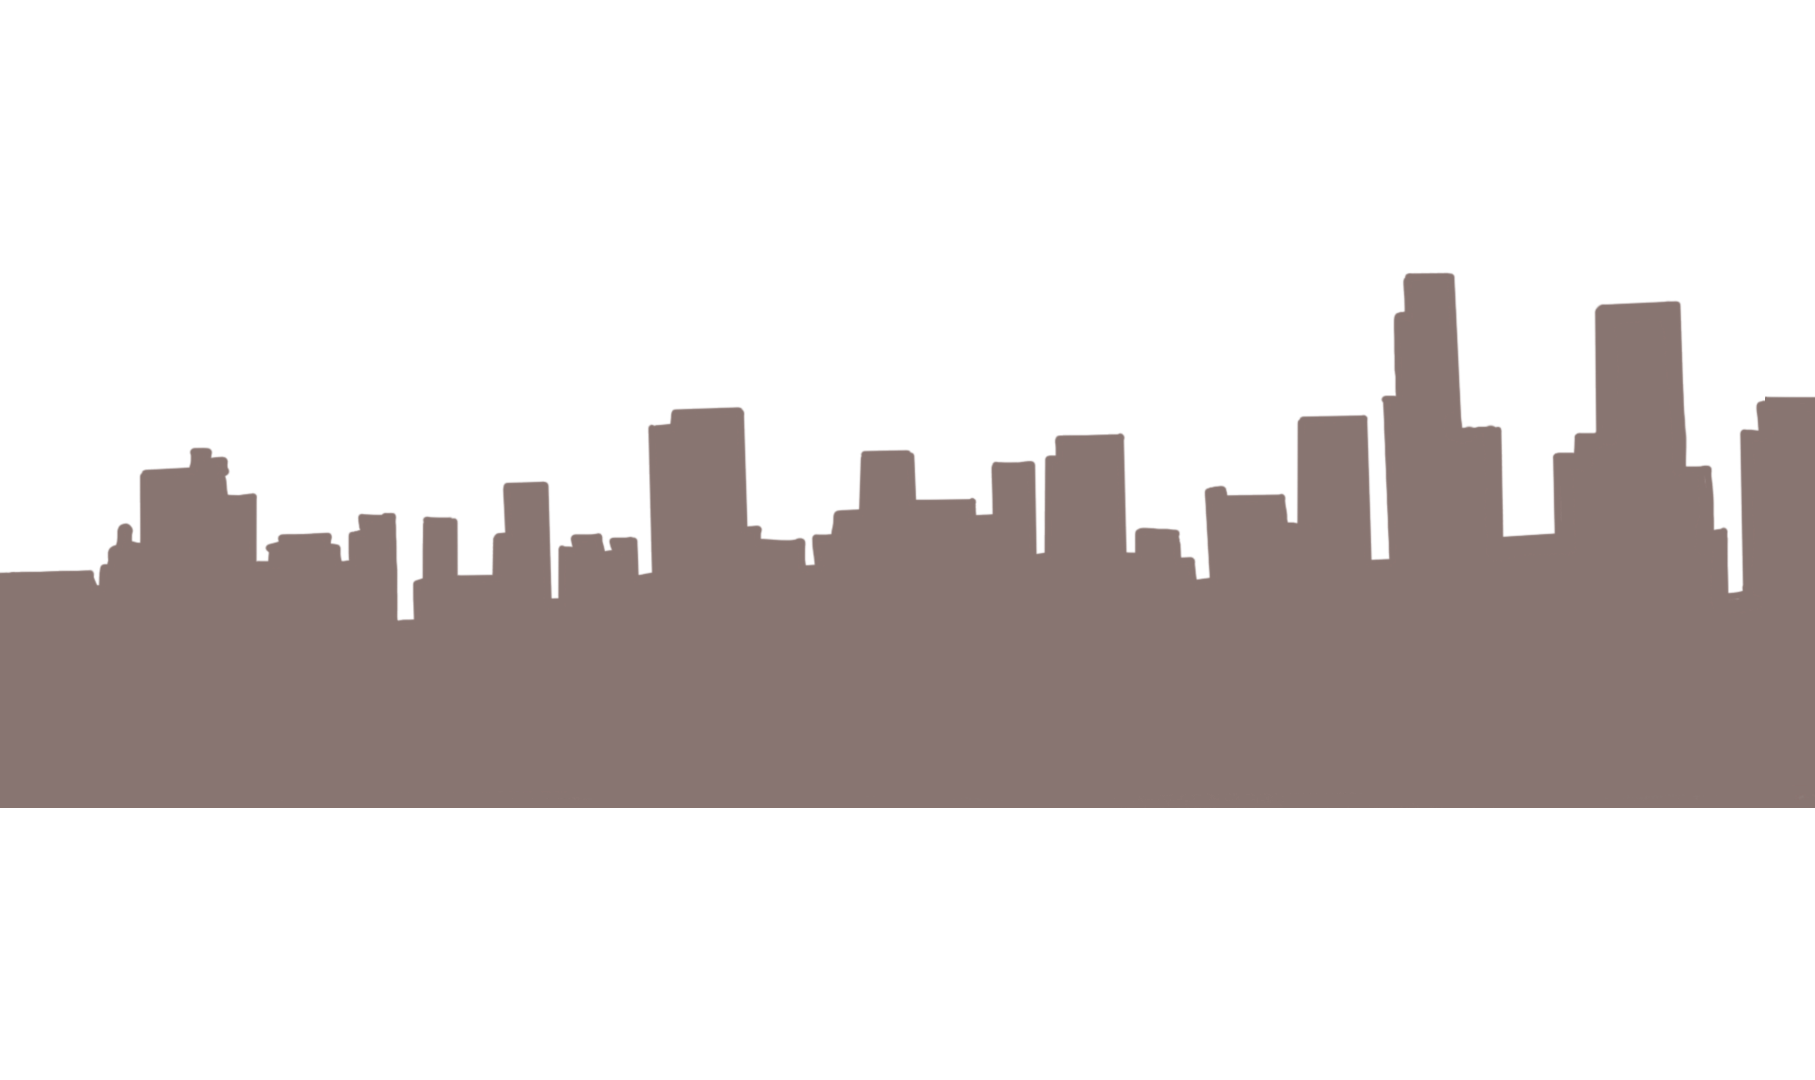
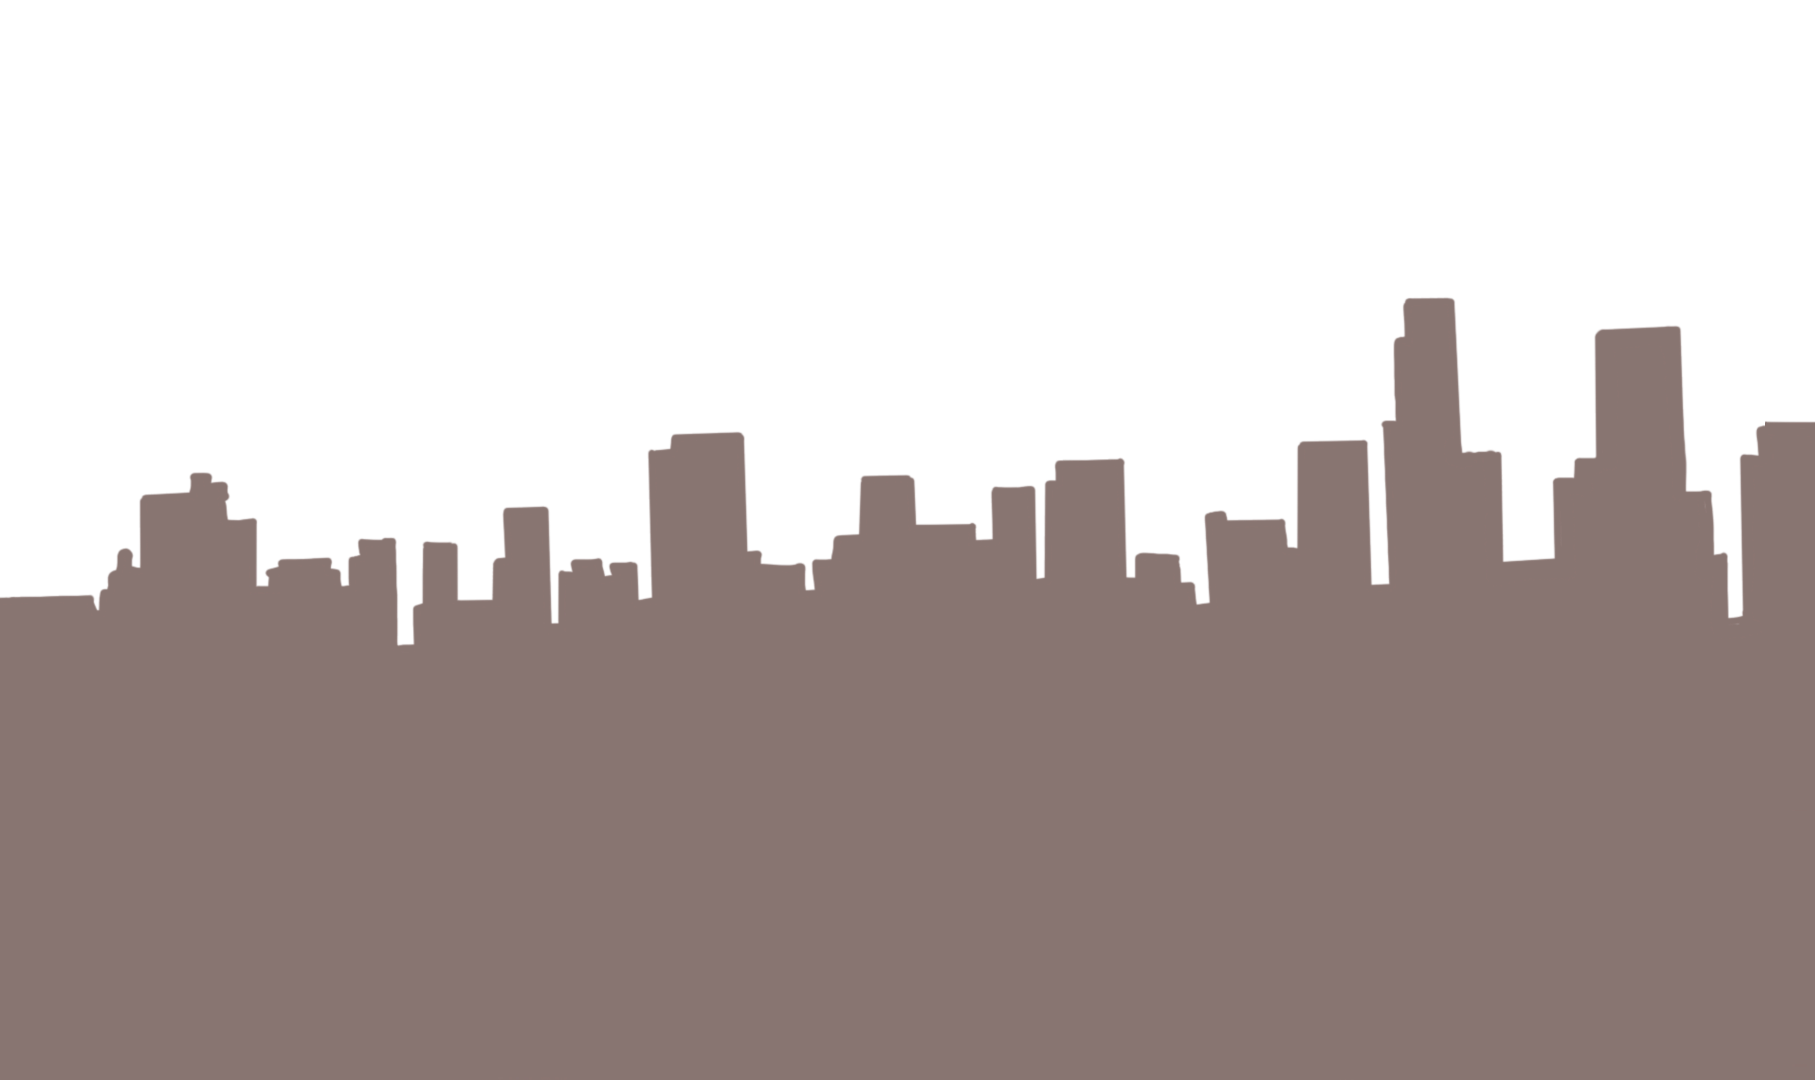
Fondos con desplazamiento y nuevos assets

diff --git a/js/abuelaFriki.js b/js/abuelaFriki.js
@@ -11,7 +11,7 @@ var config = {
         default: 'arcade',
         arcade: {
             gravity: { y: 980 }, // gravedad de la tierra
-            debug: false
+            debug: false  // Activar el modo de depuración para ver colisiones y límites
         }
     },
     scene: {
@@ -26,171 +26,168 @@ var platforms;
 let movingPlatformC, movingPlatformL, movingPlatformR;  // Variable para la plataforma móvil
 var cursors;
 var leftZone, rightZone, upZone; // Control de zonas táctiles
+var currentControl = 'keyboard'; //Variable para cambiar de controles táctiles a teclado
+var backgroundMountain, backgroundCiudad; // Variables para los fondos parallax
 
-var game = new Phaser.Game(config); //Inicializo el juego
+var game = new Phaser.Game(config); // Inicializo el juego
 
-function preload () {  // Función principal de carga de imágenes y recursos
-    //this -> se refiere al mismo juego
-    this.load.image('background', 'assets/background.png');
+function preload() {
+    // Cargar recursos
+    this.load.image('backgroundMountain', 'assets/backgroundMountain.png'); // Fondo montañoso
+    this.load.image('backgroundCiudad', 'assets/backgroundCiudad.png'); // Fondo ciudad
     this.load.image('suelo', 'assets/platform.png'); // Cargar suelo
-    //this.load.spritesheet('abuela', 'assets/abuelaSprite.png', { frameWidth: 250, frameHeight: 343 });  
     this.load.spritesheet('abuela', 'assets/abuelaSprite2.png', { frameWidth: 294, frameHeight: 378 }); 
     this.load.image('plataformasL', 'assets/platformLeft.png'); // Cargar plataformas
     this.load.image('plataformasR', 'assets/platformRight.png'); 
     this.load.image('plataformasC', 'assets/platformCenter.png'); 
 }
 
-function create () {
-    // Añadir fondo
-    this.add.image(0, 0, 'background').setOrigin(0, 0).setDisplaySize(window.innerWidth, window.innerHeight); //Colocamos el background modificando su centro "setOrigin"
+function create() {
+    // Fondo azul cielo que ocupa todo el nivel
+    this.add.rectangle(0, 0, window.innerWidth, window.innerHeight, 0x87CEEB).setOrigin(0, 0);
 
-    this.add.tileSprite(0, config.height - 120, config.width, 0, 'suelo').setOrigin(0,0);
+    // Fondo montañoso que se moverá lentamente
+    backgroundMountain = this.add.tileSprite(0, 0, window.innerWidth, window.innerHeight, 'backgroundMountain')
+        .setOrigin(0, 0)
+        .setScrollFactor(0);
+
+    // Fondo de ciudad que se moverá más rápido
+    backgroundCiudad = this.add.tileSprite(0, 0, window.innerWidth, window.innerHeight, 'backgroundCiudad')
+        .setOrigin(0, 0)
+        .setScrollFactor(0);
+
     // Crear grupo de plataformas, incluido el suelo
     platforms = this.physics.add.staticGroup();
-    platforms.create(window.innerWidth / 2, window.innerHeight - 50, 'suelo').setDisplaySize(window.innerWidth, 140).refreshBody(); // Suelo
-    //platforms.create(0,config.height - 33,config.width + 15, 2688, 'suelo').setOrigin(0,0);
-    
+    platforms.create(window.innerWidth / 2, window.innerHeight - 50, 'suelo').setDisplaySize(window.innerWidth, 140).refreshBody();
+
     // Añadir otras plataformas
     platforms.create(300, 900, 'plataformasL').setScale(0.1).refreshBody();
     platforms.create(345, 900, 'plataformasC').setScale(0.1).refreshBody();
     platforms.create(390, 900, 'plataformasR').setScale(0.1).refreshBody();
 
-
-
     platforms.create(700, 850, 'plataformasL').setScale(0.1).refreshBody();
     platforms.create(745, 850, 'plataformasC').setScale(0.1).refreshBody();
     platforms.create(790, 850, 'plataformasC').setScale(0.1).refreshBody();
     platforms.create(835, 850, 'plataformasC').setScale(0.1).refreshBody();
-    platforms.create(880, 850, 'plataformasR').setScale(0.1).refreshBody(); 
+    platforms.create(880, 850, 'plataformasR').setScale(0.1).refreshBody();
 
-   // Crear la plataforma móvil
-   movingPlatformL = this.physics.add.image(455, 730, 'plataformasL').setScale(0.11).refreshBody();
-   movingPlatformC = this.physics.add.image(500, 730, 'plataformasC').setScale(0.11).refreshBody();
-   movingPlatformR = this.physics.add.image(545, 730, 'plataformasR').setScale(0.11).refreshBody();
+    // Crear la plataforma móvil
+    movingPlatformL = this.physics.add.image(455, 730, 'plataformasL').setScale(0.11).refreshBody();
+    movingPlatformC = this.physics.add.image(500, 730, 'plataformasC').setScale(0.11).refreshBody();
+    movingPlatformR = this.physics.add.image(545, 730, 'plataformasR').setScale(0.11).refreshBody();
 
-   // Desactivar la gravedad para la plataforma móvil
-   movingPlatformL.body.setAllowGravity(false);
-   movingPlatformC.body.setAllowGravity(false);
-   movingPlatformR.body.setAllowGravity(false);
+    // Desactivar la gravedad para la plataforma móvil
+    [movingPlatformL, movingPlatformC, movingPlatformR].forEach(platform => {
+        platform.body.setAllowGravity(false).setImmovable(true).setVelocityX(100);
+    });
 
-   // Configurar la plataforma para que se mueva horizontalmente
-   movingPlatformL.setImmovable(true);  // Hacerla inamovible por colisiones
-   movingPlatformL.setVelocityX(100);  // Velocidad inicial hacia la derecha
-   movingPlatformR.setImmovable(true); 
-   movingPlatformR.setVelocityX(100);
-   movingPlatformC.setImmovable(true); 
-   movingPlatformC.setVelocityX(100);
-
-
-    
-    // Crear el jugador (Abuela)
+    // Crear el jugador
     player = this.physics.add.sprite(100, 250, 'abuela').setScale(0.4);
 
     // Configurar físicas del jugador
-    player.setBounce(0.2); //rebote
+    player.setBounce(0.2);
     player.setCollideWorldBounds(true);
 
-   // Añadir colisión entre el jugador y las plataformas estáticas
-   this.physics.add.collider(player, platforms);
-
-   // Añadir colisión entre el jugador y la plataforma móvil
-   this.physics.add.collider(player, movingPlatformL);
-   this.physics.add.collider(player, movingPlatformC);
-   this.physics.add.collider(player, movingPlatformR);
-
-
+    // Añadir colisiones
+    this.physics.add.collider(player, platforms);
+    this.physics.add.collider(player, movingPlatformL);
+    this.physics.add.collider(player, movingPlatformC);
+    this.physics.add.collider(player, movingPlatformR);
 
     // Animaciones de la abuela
     this.anims.create({
         key: 'left',
-        frames: this.anims.generateFrameNumbers('abuela', { start: 0, end: 3 }),
-        frameRate: 10,
+        frames: this.anims.generateFrameNumbers('abuela', { start: 0, end: 20 }),
+        frameRate: 30,
         repeat: -1
     });
 
     this.anims.create({
         key: 'turn',
-        frames: [ { key: 'abuela', frame: 21 } ],
+        frames: [{ key: 'abuela', frame: 21 }],
         frameRate: 20
     });
 
     this.anims.create({
         key: 'right',
         frames: this.anims.generateFrameNumbers('abuela', { start: 0, end: 20 }),
-        frameRate: 21,
+        frameRate: 30,
         repeat: -1
     });
 
-    // Habilitar teclas de control
+    // Habilitar controles
     cursors = this.input.keyboard.createCursorKeys();
-
-    // Crear zonas táctiles para mover al jugador
-    createTouchControls(this);
-    
-    // Colisiones entre el jugador y las plataformas
-    this.physics.add.collider(player, platforms);
-
-    // Añadir colisión entre el jugador y la plataforma móvil
-    this.physics.add.collider(player, movingPlatformL);
-    this.physics.add.collider(player, movingPlatformC);
-    this.physics.add.collider(player, movingPlatformR);
+    if (this.sys.game.device.input.touch) {
+        createTouchControls(this);
+    }
 }
 
+function update() {
+    if (currentControl === 'keyboard') {
+        // Controlar movimiento horizontal
+        if (cursors.left.isDown) {
+            player.setVelocityX(-300);
+            player.anims.play('left', true);
+            player.flipX = true;
+        } else if (cursors.right.isDown) {
+            player.setVelocityX(300);
+            player.anims.play('right', true);
+            player.flipX = false;
+        } else {
+            player.setVelocityX(0);
+            player.anims.play('turn');
+        }
 
-
-function update () {
-    // Controlar el movimiento horizontal del jugador con teclas
-    if (cursors.left.isDown) {
-        player.setVelocityX(-300);  // Mover a la izquierda
-        player.anims.play('left', true);  // Animación de caminar hacia la izquierda
-    }
-    else if (cursors.right.isDown) {
-        player.setVelocityX(150);  // Mover a la derecha
-        player.anims.play('right', true);  // Animación de caminar hacia la derecha
-    }
-    else {
-        player.setVelocityX(0);  // Pararse si no se pulsa ninguna tecla
-        player.anims.play('turn');  // Animación de quedarse quieto
+        // Salto del jugador
+        if (cursors.up.isDown && player.body.touching.down) {
+            player.setVelocityY(-630);
+        }
     }
 
-    // Controlar el salto del jugador
-    if (cursors.up.isDown && player.body.touching.down) { 
-        player.setVelocityY(-630);  // Aplicar un impulso hacia arriba para el salto
-    }
+    // Fondo parallax
+    backgroundMountain.tilePositionX = player.x * 0.2; // Movimiento lento
+    backgroundCiudad.tilePositionX = player.x * 0.4; // Movimiento rápido
 
-    // Cambiar la dirección de la plataforma cuando alcance ciertos límites
-    if (movingPlatformL.x >= 700) {  // Limite derecho
-        movingPlatformL.setVelocityX(-100); // Mover hacia la izquierda
+    // Cambiar dirección de plataformas móviles
+    if (movingPlatformL.x >= 700) {
+        movingPlatformL.setVelocityX(-100);
         movingPlatformC.setVelocityX(-100);
-        movingPlatformR.setVelocityX(-100);  
-    } else if (movingPlatformL.x <= 300) {  // Limite izquierdo
-        movingPlatformL.setVelocityX(100); // Mover hacia la derecha
+        movingPlatformR.setVelocityX(-100);
+    } else if (movingPlatformL.x <= 300) {
+        movingPlatformL.setVelocityX(100);
         movingPlatformC.setVelocityX(100);
-        movingPlatformR.setVelocityX(100);  
+        movingPlatformR.setVelocityX(100);
     }
-
-
 }
 
-
-// Función para crear controles táctiles
+// Función para controles táctiles
 function createTouchControls(scene) {
-    // Zonas para mover al jugador a la izquierda, derecha y saltar
+    // Crear zonas táctiles
     leftZone = scene.add.zone(0, 0, window.innerWidth / 3, window.innerHeight);
     rightZone = scene.add.zone(window.innerWidth / 3, 0, window.innerWidth / 3, window.innerHeight);
-    upZone = scene.add.zone(2 * window.innerWidth / 3, 0, window.innerWidth / 3, window.innerHeight);
+    upZone = scene.add.zone((2 * window.innerWidth) / 3, 0, window.innerWidth / 3, window.innerHeight);
 
     // Habilitar interacción táctil
-    leftZone.setInteractive().on('pointerdown', () => player.setVelocityX(-300));
-    rightZone.setInteractive().on('pointerdown', () => player.setVelocityX(300));
+    leftZone.setInteractive().on('pointerdown', () => {
+        currentControl = 'touch';
+        player.setVelocityX(-300);
+    });
+
+    rightZone.setInteractive().on('pointerdown', () => {
+        currentControl = 'touch';
+        player.setVelocityX(300);
+    });
+
     upZone.setInteractive().on('pointerdown', () => {
+        currentControl = 'touch';
         if (player.body.touching.down) {
-            player.setVelocityY(-630); // Aplicar un impulso hacia arriba para el salto
+            player.setVelocityY(-630);
         }
     });
 
-    // Cuando se suelta la pantalla, detener el movimiento
+    // Detener movimiento al soltar
     scene.input.on('pointerup', () => {
-        player.setVelocityX(0); // Detener al jugador
+        currentControl = 'keyboard';
+        player.setVelocityX(0);
     });
 }
